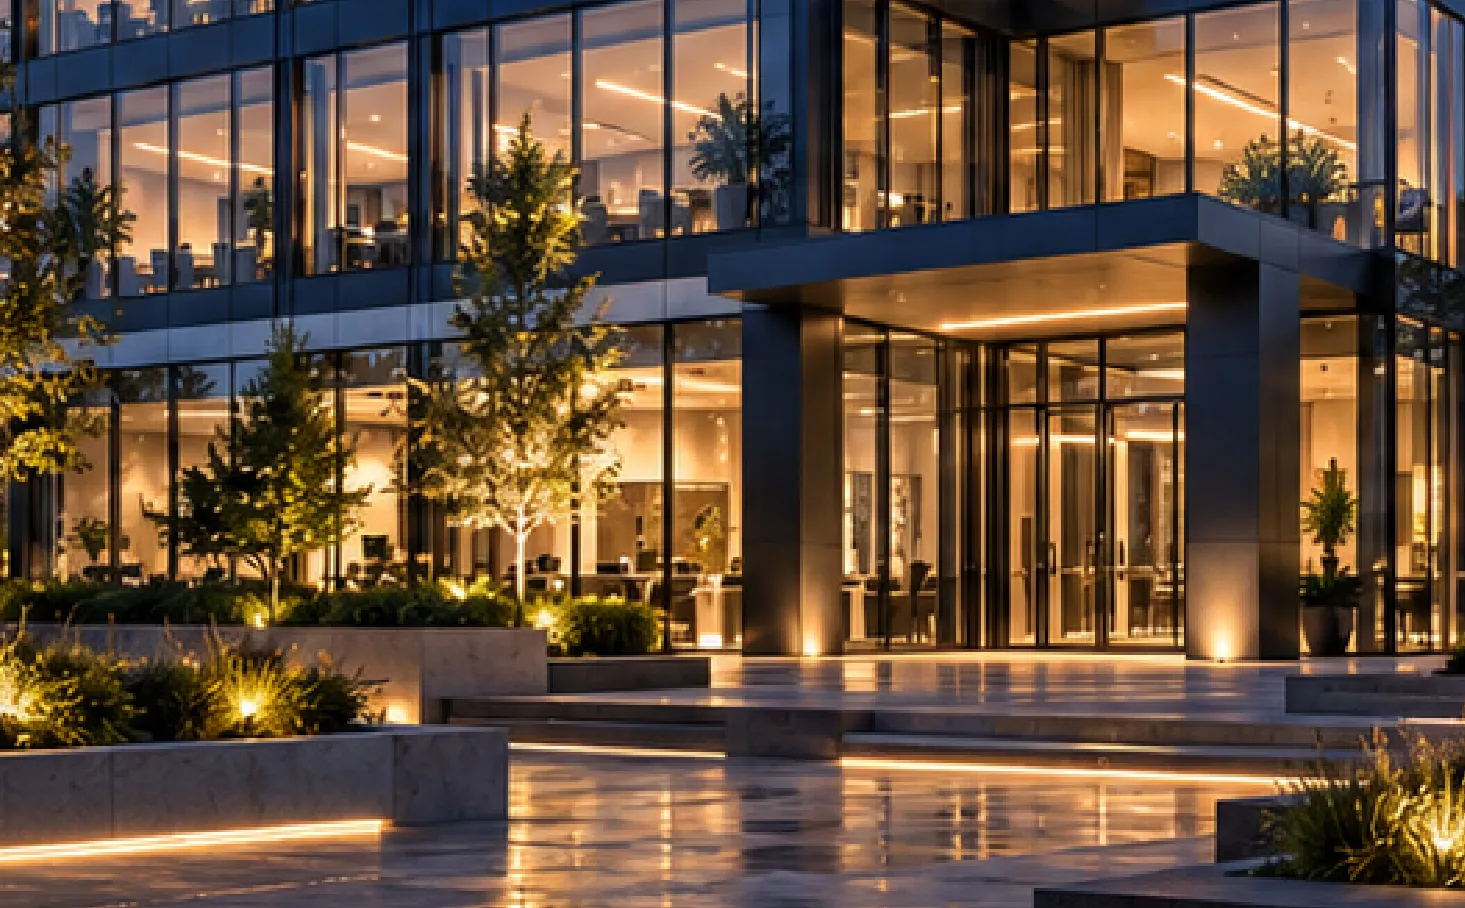
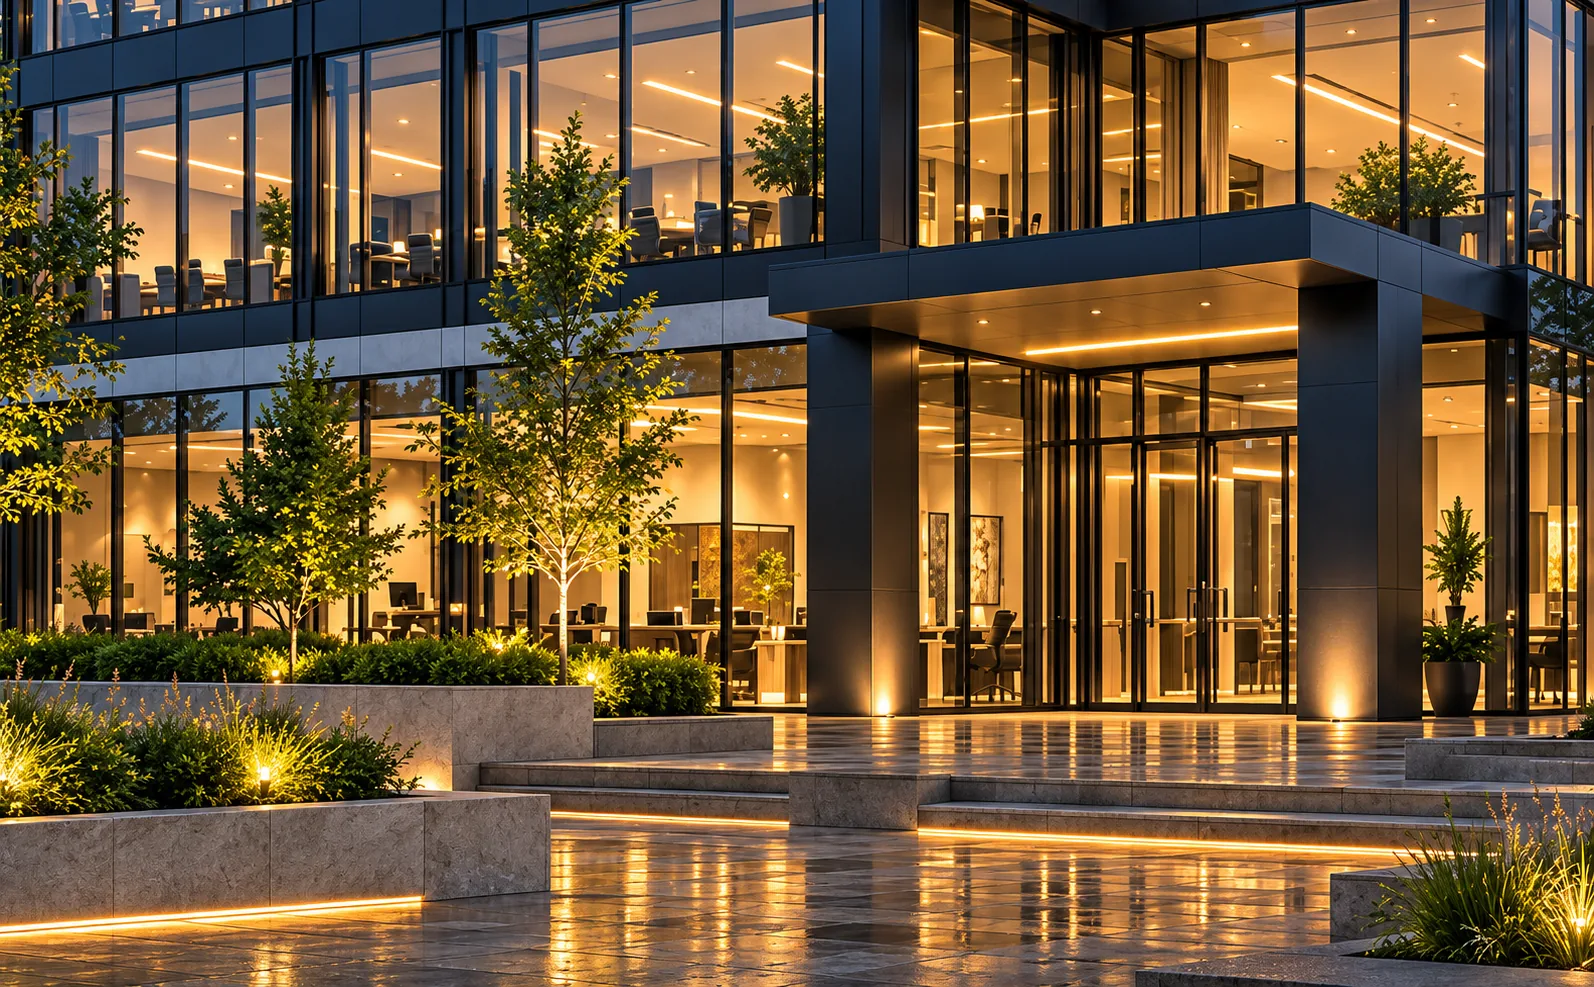
ALUPROF: новая картинка первого экрана страницы Системы
Claude-Session: https://claude.ai/code/session_01Da8nQYMpYeLq4XFoui4s6z

diff --git a/aluprof/systems.html b/aluprof/systems.html
@@ -14,9 +14,9 @@
 <link rel="icon" href="assets/img/favicon.ico" sizes="any">
 <link rel="icon" type="image/png" sizes="32x32" href="assets/img/favicon-32.png">
 <link rel="apple-touch-icon" href="assets/img/apple-touch-icon.png">
-<link rel="preload" as="image" href="assets/img/sys-hero.webp" fetchpriority="high">
+<link rel="preload" as="image" href="assets/img/sys-hero.webp?v=25" fetchpriority="high">
 <link rel="preload" as="font" type="font/woff" href="assets/fonts/InterDisplay-Medium.woff" crossorigin>
-<link rel="stylesheet" href="assets/css/styles.css?v=24">
+<link rel="stylesheet" href="assets/css/styles.css?v=25">
 </head>
 <body class="is-loading page-systems">
 
@@ -61,7 +61,7 @@
 <main>
 
 <section class="page-hero" data-theme="dark">
-  <div class="page-hero__img"><img src="assets/img/sys-hero.webp" alt="Здание с панорамным остеклением, архитектурная визуализация" data-speed="0.12"></div>
+  <div class="page-hero__img"><img src="assets/img/sys-hero.webp?v=25" alt="Здание с панорамным остеклением, архитектурная визуализация" data-speed="0.12"></div>
   <div class="wrap page-hero__in">
     <div class="crumbs hero__fade"><a href="index.html">Главная</a><span>/</span><span>Системы</span></div>
     <div class="page-hero__grid">
@@ -291,8 +291,8 @@
   </div>
 </footer>
 
-<script src="assets/js/profile3d.js?v=24"></script>
-<script src="assets/js/main.js?v=24"></script>
-<script src="assets/js/extras.js?v=24"></script>
+<script src="assets/js/profile3d.js?v=25"></script>
+<script src="assets/js/main.js?v=25"></script>
+<script src="assets/js/extras.js?v=25"></script>
 </body>
 </html>

diff --git a/aluprof/about.html b/aluprof/about.html
@@ -16,7 +16,7 @@
 <link rel="apple-touch-icon" href="assets/img/apple-touch-icon.png">
 <link rel="preload" as="image" href="assets/img/15years.webp" fetchpriority="high">
 <link rel="preload" as="font" type="font/woff" href="assets/fonts/InterDisplay-Medium.woff" crossorigin>
-<link rel="stylesheet" href="assets/css/styles.css?v=24">
+<link rel="stylesheet" href="assets/css/styles.css?v=25">
 </head>
 <body class="is-loading page-about">
 
@@ -253,8 +253,8 @@
   </div>
 </footer>
 
-<script src="assets/js/profile3d.js?v=24"></script>
-<script src="assets/js/main.js?v=24"></script>
-<script src="assets/js/extras.js?v=24"></script>
+<script src="assets/js/profile3d.js?v=25"></script>
+<script src="assets/js/main.js?v=25"></script>
+<script src="assets/js/extras.js?v=25"></script>
 </body>
 </html>

diff --git a/aluprof/index.html b/aluprof/index.html
@@ -16,7 +16,7 @@
 <link rel="apple-touch-icon" href="assets/img/apple-touch-icon.png">
 <link rel="preload" as="image" href="assets/img/building-night.webp" fetchpriority="high">
 <link rel="preload" as="font" type="font/woff" href="assets/fonts/InterDisplay-Medium.woff" crossorigin>
-<link rel="stylesheet" href="assets/css/styles.css?v=24">
+<link rel="stylesheet" href="assets/css/styles.css?v=25">
 </head>
 <body class="is-loading">
 
@@ -434,8 +434,8 @@
   </div>
 </footer>
 
-<script src="assets/js/profile3d.js?v=24"></script>
-<script src="assets/js/main.js?v=24"></script>
-<script src="assets/js/extras.js?v=24"></script>
+<script src="assets/js/profile3d.js?v=25"></script>
+<script src="assets/js/main.js?v=25"></script>
+<script src="assets/js/extras.js?v=25"></script>
 </body>
 </html>
